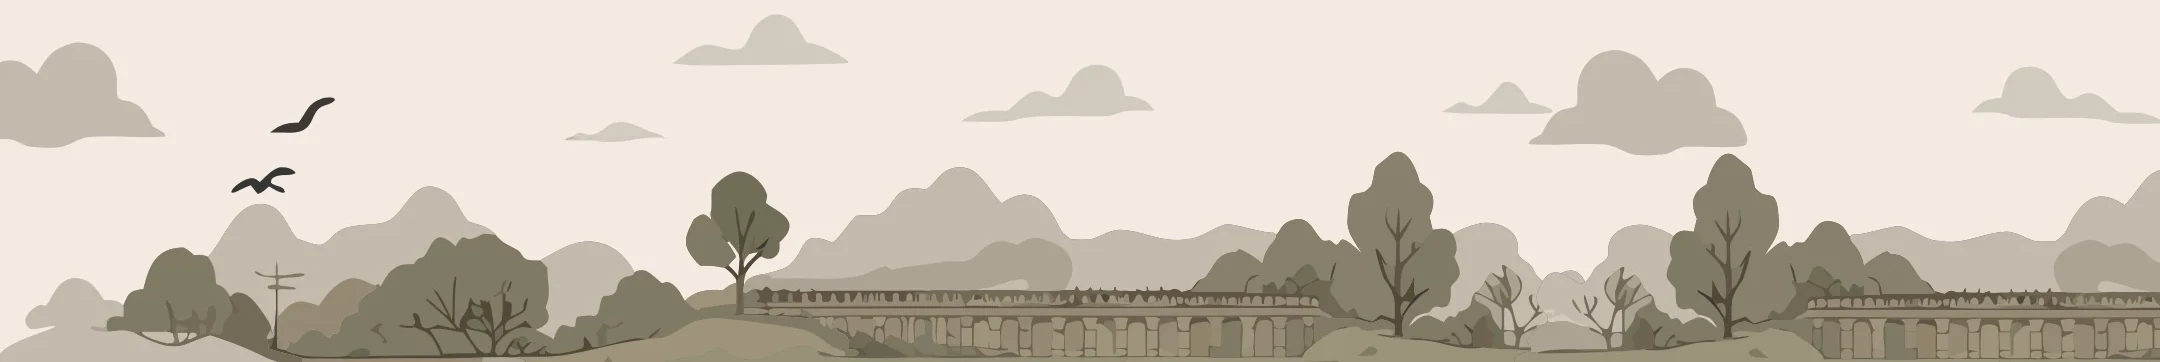
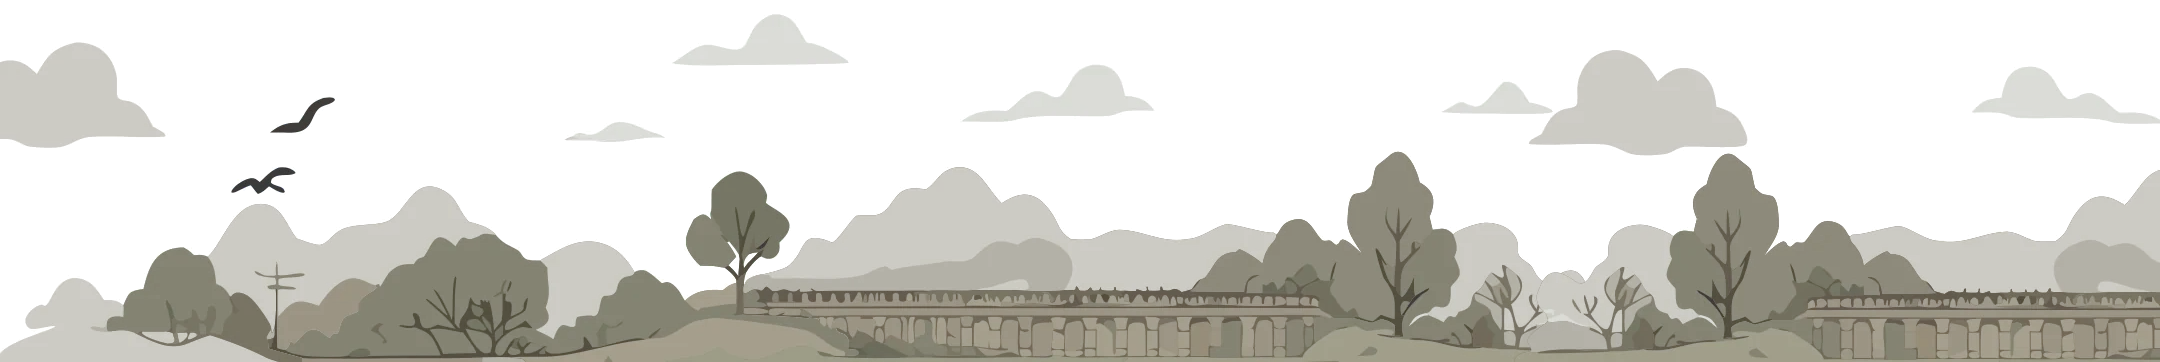
Railway page: sky-matched theme, compact research grid, no small train, highlighted live-site button

diff --git a/css/style.css b/css/style.css
@@ -803,7 +803,7 @@ html:has(.gallery.tight) { scroll-snap-type: y proximity; }
 .rw-hero-grid { display: grid; grid-template-columns: 1.1fr 0.9fr; gap: 50px; align-items: center; }
 .rw-net { animation: rw-float 9s ease-in-out infinite; }
 @keyframes rw-float { 50% { transform: translateY(-14px) rotate(1.2deg); } }
-.rw-hills { margin: 60px calc(var(--pad) * -1) -70px; overflow: hidden; mix-blend-mode: multiply; }
+.rw-hills { margin: 60px calc(var(--pad) * -1) -70px; overflow: hidden; }
 .rw-hills img { width: 100%; transform: translateY(var(--py, 0px)); will-change: transform; }
 
 /* train */
@@ -817,25 +817,25 @@ html:has(.gallery.tight) { scroll-snap-type: y proximity; }
 @keyframes rw-puff { from { transform: translate(0, 0) scale(0.5); opacity: 0.7; } to { transform: translate(-40px, -50px) scale(2.2); opacity: 0; } }
 
 /* research */
-.rw-res { display: grid; grid-template-columns: repeat(3, 1fr); gap: 36px 28px; margin-top: 48px; align-items: start; }
-.rw-res figure img { width: 100%; border-radius: 10px; box-shadow: 0 1px 0 rgba(0,0,0,.06), 0 10px 30px -14px rgba(31,58,58,.35); transition: transform 0.5s var(--ease); }
+.rw-res { display: grid; grid-template-columns: repeat(3, 1fr); gap: 28px 28px; margin-top: 36px; align-items: start; }
+.rw-res figure img { height: clamp(150px, 27vh, 300px); width: 100%; object-fit: contain; object-position: left top; }
+.rw-res figure img { border-radius: 10px; box-shadow: 0 1px 0 rgba(0,0,0,.06), 0 10px 30px -14px rgba(31,58,58,.35); transition: transform 0.5s var(--ease); }
 .rw-res figure:hover img { transform: translateY(-4px) scale(1.015); }
-.rw-res figcaption { font: 400 16px/1.5 var(--sans); margin-top: 12px; }
+.rw-res figcaption { font: 400 15px/1.45 var(--sans); margin-top: 10px; }
 .rw-layers-box { position: relative; }
-.rw-layers-box img { box-shadow: none !important; border-radius: 0; }
-.rw-layers { list-style: none; position: absolute; right: 0; top: 8%; bottom: 8%; display: flex; flex-direction: column; justify-content: space-between; margin: 0; padding: 0; font: 500 14px var(--sans); }
+.rw-layers-box img { box-shadow: none !important; border-radius: 0; width: auto !important; max-width: 62%; }
+.rw-layers { list-style: none; position: absolute; left: 60%; top: 6%; bottom: 6%; display: flex; flex-direction: column; justify-content: space-between; margin: 0; padding: 0; font: 500 14px var(--sans); }
 .rw-layers li { cursor: default; padding: 2px 8px; border-radius: 6px; transition: background 0.2s, color 0.2s; }
 .rw-layers li:hover { background: var(--line); color: var(--cream); }
 
 /* information architecture */
-.rw-ia { position: relative; margin-top: 64px; padding-top: 70px; }
-.rw-line { position: absolute; left: 3%; right: 3%; top: 38px; height: 2px; background: color-mix(in srgb, var(--text) 25%, transparent); }
+.rw-ia { position: relative; margin-top: 56px; padding-top: 10px; }
+.rw-line { position: absolute; left: 8.333%; right: 8.333%; top: 41px; height: 2px; background: color-mix(in srgb, var(--text) 25%, transparent); }
 .rw-line-fill { position: absolute; left: 0; top: 0; height: 100%; width: var(--p, 0%); background: var(--line); transition: width 0.9s var(--ease); }
-.rw-ia-train { position: absolute; top: -52px; left: var(--p, 0%); width: 120px; transform: translateX(-85%); transition: left 0.9s var(--ease); }
 .rw-stops { list-style: none; display: grid; grid-template-columns: repeat(6, 1fr); margin: 0; padding: 0; }
 .rw-stop { background: none; border: 0; cursor: pointer; display: flex; flex-direction: column; align-items: center; gap: 6px; width: 100%; color: inherit; font: 500 20px var(--sans); padding: 0 4px 6px; }
-.rw-stop em { font: 400 15px var(--sans); font-style: normal; color: var(--line); order: -1; }
-.rw-dot { width: 18px; height: 18px; border-radius: 50%; background: #78a9b3; transition: transform 0.4s var(--ease), background 0.3s; margin-bottom: 6px; }
+.rw-stop em { font: 400 15px/18px var(--sans); font-style: normal; color: var(--line); order: -1; }
+.rw-dot { position: relative; z-index: 1; width: 18px; height: 18px; border-radius: 50%; background: #78a9b3; transition: transform 0.4s var(--ease), background 0.3s; margin-bottom: 6px; }
 .rw-stop:hover .rw-dot { transform: scale(1.25); }
 .rw-stop.on .rw-dot { background: var(--line); transform: scale(1.5); }
 .rw-stop.on b { color: var(--line); }
@@ -858,9 +858,10 @@ html:has(.gallery.tight) { scroll-snap-type: y proximity; }
   .rw-res { grid-template-columns: 1fr 1fr; }
   .rw-sec { margin-top: 90px; }
   .rw-stops { grid-template-columns: repeat(3, 1fr); gap: 22px 0; }
-  .rw-line, .rw-ia-train { display: none; }
-  .rw-ia { padding-top: 10px; }
+  .rw-line,   .rw-ia { padding-top: 10px; }
 }
 @media (max-width: 540px) { .rw-res { grid-template-columns: 1fr; } }
 @media (prefers-reduced-motion: reduce) { .rw-net, .rw-train, .rw-train img, .rw-smoke { animation: none; } .rw-train { left: 40%; } }
-.rw-live { margin-top: 36px; }
+.rw-end { padding-bottom: 90px; }
+.rw-live.pill { margin-top: 40px; background: var(--line); color: var(--cream); border-color: var(--line); font-size: 22px; padding: 16px 34px; box-shadow: 0 14px 30px -12px var(--line); transition: transform 0.35s var(--ease), box-shadow 0.35s var(--ease); }
+.rw-live.pill:hover { background: var(--text); border-color: var(--text); transform: translateY(-3px); }

diff --git a/projects/railway-network.html b/projects/railway-network.html
@@ -6,7 +6,7 @@
 <meta name="viewport" content="width=device-width, initial-scale=1" />
 <title>Railway Network — Nikita Bangia</title>
 <meta name="description" content="A visual and interactive exploration of the Central Indian railway network, mapping zones, history, divisions and routes through information design so" />
-<meta name="theme-color" content="#F4EBE2" />
+<meta name="theme-color" content="#F4EAE2" />
 <meta property="og:title" content="Railway Network — Nikita Bangia" />
 <meta property="og:description" content="A visual and interactive exploration of the Central Indian railway network, mapping zones, history, divisions and routes through information design so" />
 <meta property="og:image" content="/img/railway-cover.webp" />
@@ -15,7 +15,7 @@
 <link rel="preconnect" href="https://fonts.googleapis.com" />
 <link rel="preconnect" href="https://fonts.gstatic.com" crossorigin />
 <link href="https://fonts.googleapis.com/css2?family=Instrument+Sans:wght@400;500;600&family=Instrument+Serif:ital@0;1&display=swap" rel="stylesheet" />
-<link rel="stylesheet" href="/css/style.css?v=rw2" />
+<link rel="stylesheet" href="/css/style.css?v=rw3" />
 </head>
 <body class="project-page">
 
@@ -29,7 +29,7 @@
 </header>
 <main>
 
-<style>body.case-on{--cream:#F4EBE2;--red:#1F3A3A;--text:#1F3A3A;--line:#C8703A;--grid:rgba(31,58,58,0.08)}</style>
+<style>body.case-on{--cream:#F4EAE2;--red:#1F3A3A;--text:#1F3A3A;--line:#C8703A;--grid:rgba(31,58,58,0.08)}</style>
 <div class="proj-wrap">
 <section class="proj-head">
   <div class="proj-left">
@@ -105,7 +105,6 @@
   <p class="rw-p rw-narrow">One scroll, six sections. Pick a stop and the train takes you there.</p>
   <div class="rw-ia" data-ia>
     <div class="rw-line"><span class="rw-line-fill"></span>
-      <div class="rw-ia-train"><img class="" src="/img/railway/train.webp" alt="" loading="lazy" /></div>
     </div>
     <ol class="rw-stops">
       <li><button type="button" class="rw-stop on" data-i="0"><span class="rw-dot"></span><em>01</em><b>Zones</b></button></li><li><button type="button" class="rw-stop" data-i="1"><span class="rw-dot"></span><em>02</em><b>History</b></button></li><li><button type="button" class="rw-stop" data-i="2"><span class="rw-dot"></span><em>03</em><b>Divisions</b></button></li><li><button type="button" class="rw-stop" data-i="3"><span class="rw-dot"></span><em>04</em><b>Routes</b></button></li><li><button type="button" class="rw-stop" data-i="4"><span class="rw-dot"></span><em>05</em><b>Passenger Load</b></button></li><li><button type="button" class="rw-stop" data-i="5"><span class="rw-dot"></span><em>06</em><b>Safety</b></button></li>
@@ -160,6 +159,6 @@
   </div>
 </footer>
 <script>(function(){var h=location.hash;if(h.indexOf("#p-")!==0)return;var e=document.getElementById(h.slice(1));if(!e)return;var y=e.getBoundingClientRect().top+scrollY-innerHeight*0.22;window.scrollTo({top:y,behavior:"instant"});})();</script>
-<script src="/js/main.js?v=rw1" defer></script>
+<script src="/js/main.js?v=rw2" defer></script>
 </body>
 </html>

diff --git a/projects/dau-ridepod.html b/projects/dau-ridepod.html
@@ -15,7 +15,7 @@
 <link rel="preconnect" href="https://fonts.googleapis.com" />
 <link rel="preconnect" href="https://fonts.gstatic.com" crossorigin />
 <link href="https://fonts.googleapis.com/css2?family=Instrument+Sans:wght@400;500;600&family=Instrument+Serif:ital@0;1&display=swap" rel="stylesheet" />
-<link rel="stylesheet" href="/css/style.css?v=rw2" />
+<link rel="stylesheet" href="/css/style.css?v=rw3" />
 </head>
 <body class="project-page">
 
@@ -113,6 +113,6 @@
   </div>
 </footer>
 <script>(function(){var h=location.hash;if(h.indexOf("#p-")!==0)return;var e=document.getElementById(h.slice(1));if(!e)return;var y=e.getBoundingClientRect().top+scrollY-innerHeight*0.22;window.scrollTo({top:y,behavior:"instant"});})();</script>
-<script src="/js/main.js?v=rw1" defer></script>
+<script src="/js/main.js?v=rw2" defer></script>
 </body>
 </html>

diff --git a/projects/groomcue.html b/projects/groomcue.html
@@ -15,7 +15,7 @@
 <link rel="preconnect" href="https://fonts.googleapis.com" />
 <link rel="preconnect" href="https://fonts.gstatic.com" crossorigin />
 <link href="https://fonts.googleapis.com/css2?family=Instrument+Sans:wght@400;500;600&family=Instrument+Serif:ital@0;1&display=swap" rel="stylesheet" />
-<link rel="stylesheet" href="/css/style.css?v=rw2" />
+<link rel="stylesheet" href="/css/style.css?v=rw3" />
 </head>
 <body class="project-page">
 
@@ -279,6 +279,6 @@
   </div>
 </footer>
 <script>(function(){var h=location.hash;if(h.indexOf("#p-")!==0)return;var e=document.getElementById(h.slice(1));if(!e)return;var y=e.getBoundingClientRect().top+scrollY-innerHeight*0.22;window.scrollTo({top:y,behavior:"instant"});})();</script>
-<script src="/js/main.js?v=rw1" defer></script>
+<script src="/js/main.js?v=rw2" defer></script>
 </body>
 </html>

diff --git a/projects/streetly.html b/projects/streetly.html
@@ -15,7 +15,7 @@
 <link rel="preconnect" href="https://fonts.googleapis.com" />
 <link rel="preconnect" href="https://fonts.gstatic.com" crossorigin />
 <link href="https://fonts.googleapis.com/css2?family=Instrument+Sans:wght@400;500;600&family=Instrument+Serif:ital@0;1&display=swap" rel="stylesheet" />
-<link rel="stylesheet" href="/css/style.css?v=rw2" />
+<link rel="stylesheet" href="/css/style.css?v=rw3" />
 </head>
 <body class="project-page">
 
@@ -190,6 +190,6 @@
   </div>
 </footer>
 <script>(function(){var h=location.hash;if(h.indexOf("#p-")!==0)return;var e=document.getElementById(h.slice(1));if(!e)return;var y=e.getBoundingClientRect().top+scrollY-innerHeight*0.22;window.scrollTo({top:y,behavior:"instant"});})();</script>
-<script src="/js/main.js?v=rw1" defer></script>
+<script src="/js/main.js?v=rw2" defer></script>
 </body>
 </html>

diff --git a/projects/vr-tattoo-studio.html b/projects/vr-tattoo-studio.html
@@ -15,7 +15,7 @@
 <link rel="preconnect" href="https://fonts.googleapis.com" />
 <link rel="preconnect" href="https://fonts.gstatic.com" crossorigin />
 <link href="https://fonts.googleapis.com/css2?family=Instrument+Sans:wght@400;500;600&family=Instrument+Serif:ital@0;1&display=swap" rel="stylesheet" />
-<link rel="stylesheet" href="/css/style.css?v=rw2" />
+<link rel="stylesheet" href="/css/style.css?v=rw3" />
 </head>
 <body class="project-page">
 
@@ -105,6 +105,6 @@
   </div>
 </footer>
 <script>(function(){var h=location.hash;if(h.indexOf("#p-")!==0)return;var e=document.getElementById(h.slice(1));if(!e)return;var y=e.getBoundingClientRect().top+scrollY-innerHeight*0.22;window.scrollTo({top:y,behavior:"instant"});})();</script>
-<script src="/js/main.js?v=rw1" defer></script>
+<script src="/js/main.js?v=rw2" defer></script>
 </body>
 </html>

diff --git a/js/main.js b/js/main.js
@@ -288,12 +288,12 @@
   const btns = [...ia.querySelectorAll(".rw-stop")], card = ia.querySelector(".rw-card");
   const go = (i) => {
     btns.forEach((b, k) => b.classList.toggle("on", k === i));
-    ia.style.setProperty("--p", `${3 + (94 * i) / (btns.length - 1)}%`);
+    ia.style.setProperty("--p", `${(100 * i) / (btns.length - 1)}%`);
     card.innerHTML = `<h3>${stops[i][0]}</h3><p>${stops[i][1]}</p>`;
     card.classList.remove("swap"); void card.offsetWidth; card.classList.add("swap");
   };
   btns.forEach((b, i) => b.addEventListener("click", () => go(i)));
-  ia.style.setProperty("--p", "3%");
+  ia.style.setProperty("--p", "0%");
   let seen = false;
   new IntersectionObserver((es) => {
     if (seen || !es[0].isIntersecting) return;
